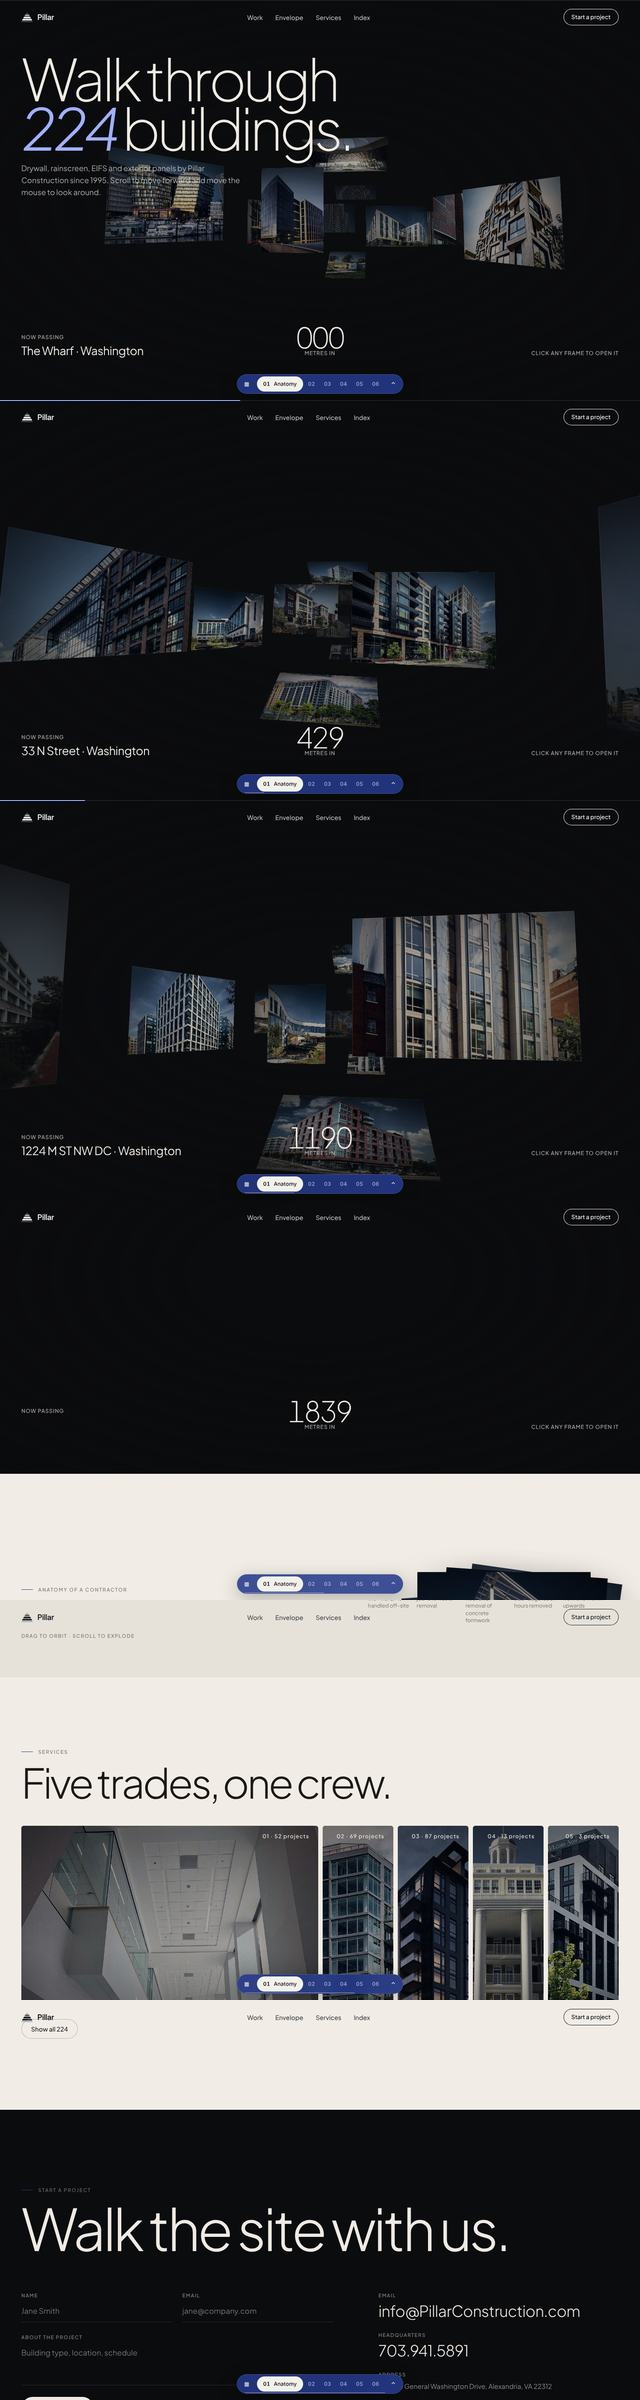
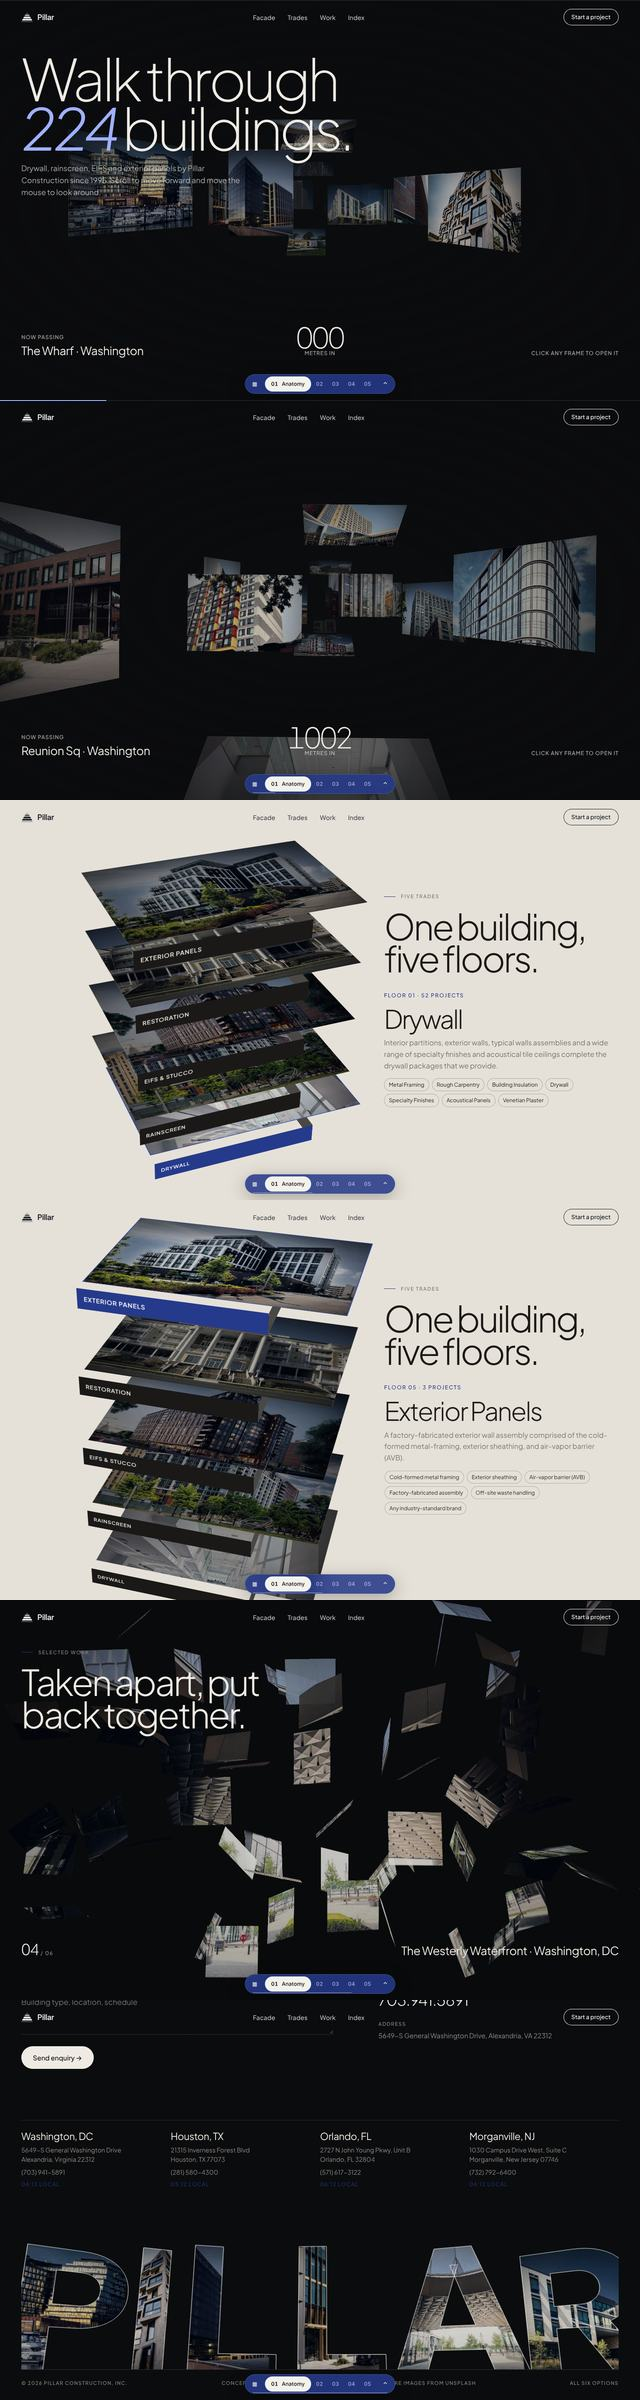
Round two: slab field depth fix and five-option previews
Fade slabs as the camera reaches them and hide back faces, and replace
the hub and switcher previews with captures of the five rebuilt options.

Claude-Session: https://claude.ai/code/session_01KxoBHkCvMFPP1jtcqjA8ZD

diff --git a/assets/fx2.js b/assets/fx2.js
@@ -177,7 +177,9 @@
     host.addEventListener('pointerover', (e) => { const s = e.target.closest('.sb'); if (s) $('.sl-t', host).textContent = s.dataset.n; });
     let p = 0, cp = 0, ry = 0;
     ScrollTrigger.create({ trigger: host, start: 'top top', end: '+=220%', pin: true, scrub: true, onUpdate: (s) => (p = s.progress) });
-    loop(() => { cp += (p - cp) * .07; ry += ((ptr.x / innerWidth - .5) * 40 - ry) * .05; $('.sl-cam', host).style.transform = `translateZ(${-400 + cp * 1900}px) rotateX(-6deg) rotateY(${ry}deg)`; }, host);
+    const sbs = $$('.sb', host);
+    loop(() => { cp += (p - cp) * .07; ry += ((ptr.x / innerWidth - .5) * 40 - ry) * .05; const cz = -500 + cp * 1500; $('.sl-cam', host).style.transform = `translateZ(${cz}px) rotateX(-6deg) rotateY(${ry}deg)`;
+      sbs.forEach((el, i) => { const vz = pos[i].z + cz, o = vz > 250 ? Math.max(0, 1 - (vz - 250) / 260) : 1; el.style.opacity = o.toFixed(3); el.style.visibility = o < .02 ? 'hidden' : 'visible'; el.style.pointerEvents = o > .5 ? 'auto' : 'none'; }); }, host);
   }
 
   /* ---------- book: a portfolio whose pages turn with scroll or drag ---------- */

diff --git a/assets/fx2.css b/assets/fx2.css
@@ -93,7 +93,7 @@
 .sl-cam{position:absolute;left:50%;top:55%;transform-style:preserve-3d}
 .sl-floor{position:absolute;left:-1600px;top:230px;width:3200px;height:5200px;transform-origin:50% 0;transform:rotateX(90deg) translateY(-2200px);background:repeating-linear-gradient(0deg,var(--k-line) 0 1px,transparent 1px 160px),repeating-linear-gradient(90deg,var(--k-line) 0 1px,transparent 1px 160px)}
 .sb{position:absolute;left:-110px;top:-230px;width:220px;height:460px;transform-style:preserve-3d;cursor:pointer}
-.sb span{position:absolute;display:block}
+.sb span{position:absolute;display:block;backface-visibility:hidden;-webkit-backface-visibility:hidden}
 .sb .f{inset:0;transform:translateZ(16px);overflow:hidden;transition:transform .7s cubic-bezier(.16,1,.3,1),filter .5s;filter:brightness(.85)}
 .sb:hover .f{transform:translateZ(16px) translateY(-40px);filter:brightness(1.15)}
 .sb .f img{width:100%;height:100%;object-fit:cover}
